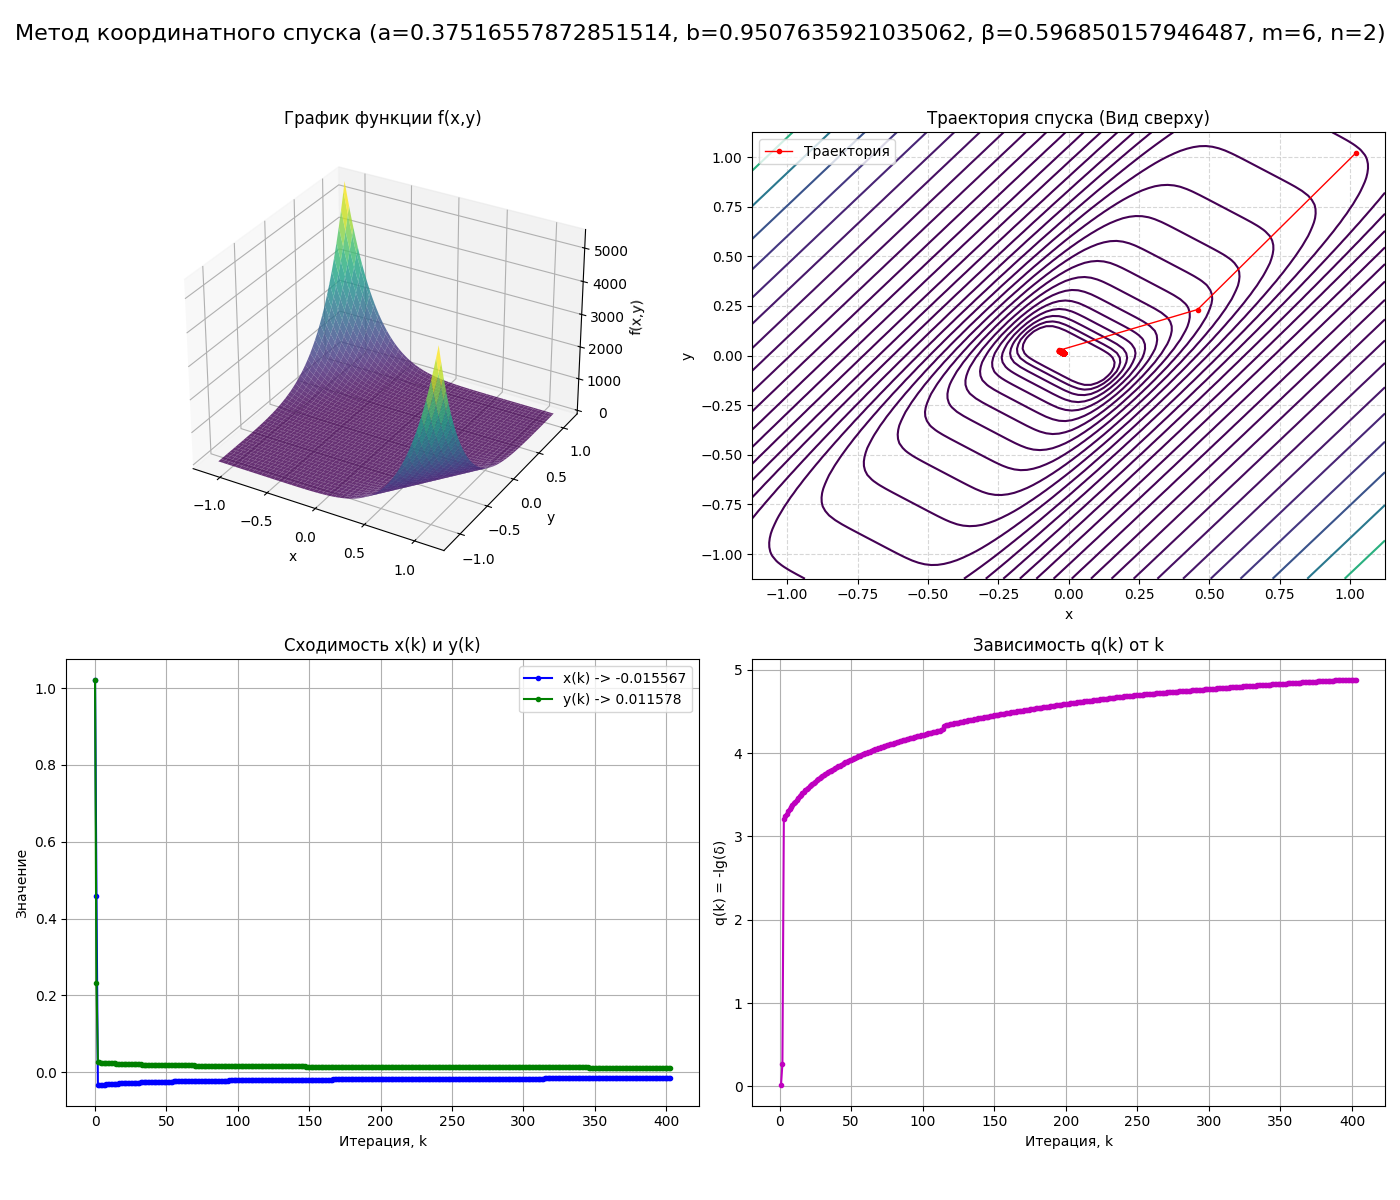
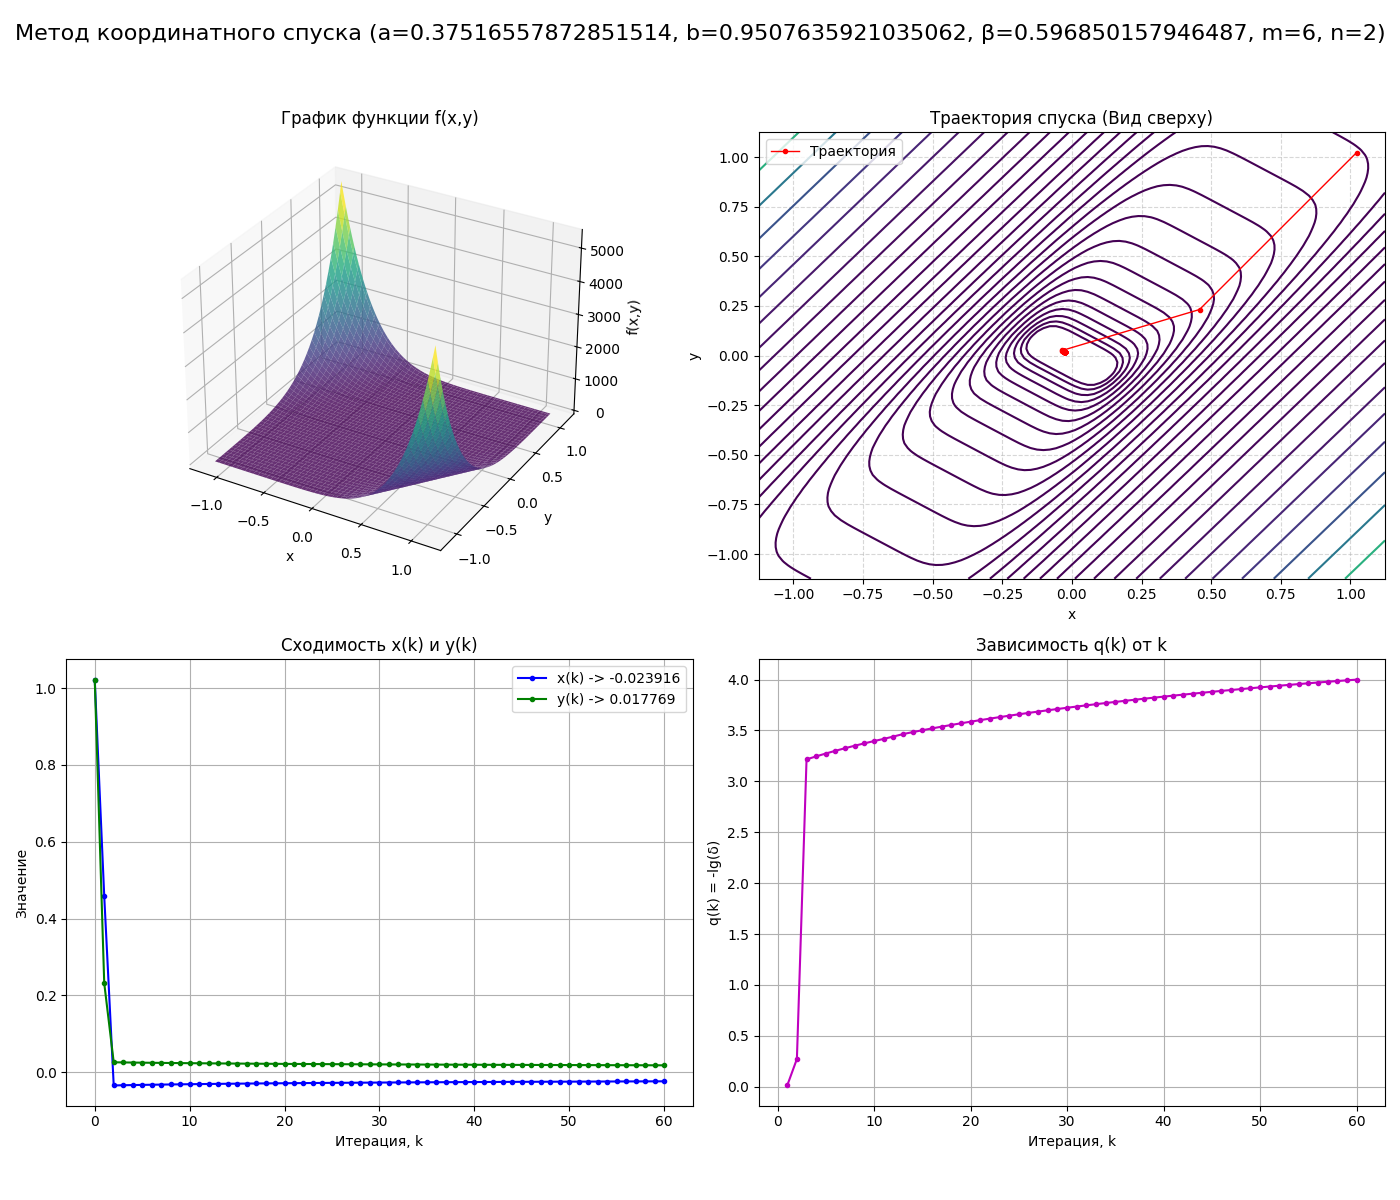
добавил время выполнения в 11 задании

diff --git a/week_9/task11/main.py b/week_9/task11/main.py
@@ -2,6 +2,8 @@ import math
 from scipy.optimize import minimize_scalar
 import matplotlib.pyplot as plt
 import numpy as np
+import time
+
 
 def main():
     np.random.seed(42)
@@ -15,7 +17,7 @@ def main():
 
     print(f"Используем параметры: a={a:.4f}, b={b:.4f}, m={m}, n={n}, beta={beta:.4f}")
 
-    eps = 1e-5
+    eps = 1e-4
     kmax = 10000
     d = math.sqrt(a**2 + b**2)
     alpha = math.sqrt(1 - beta**2)
@@ -25,7 +27,7 @@ def main():
     xs = [x]
     ys = [y]
     qs = []
-
+    start_time = time.time()
     for k in range(1, kmax + 1):
         x_prev, y_prev = x, y
         
@@ -53,8 +55,11 @@ def main():
         if k == kmax:
             print("Достигнут kmax")
             break
+    end_time = time.time()
+
+    elapsed_time =  end_time - start_time
     
-    print(f"Всего итераций k={k}")
+    print(f"Всего итераций k={k}, выполнено за {elapsed_time} сек")
     print(f"x_min={x:.8f}")
     print(f"y_min={y:.8f}")
     print(f"Значение функции f(x,y): {fxy(alpha, beta, a, b, x, y, m, n):.8f}")
